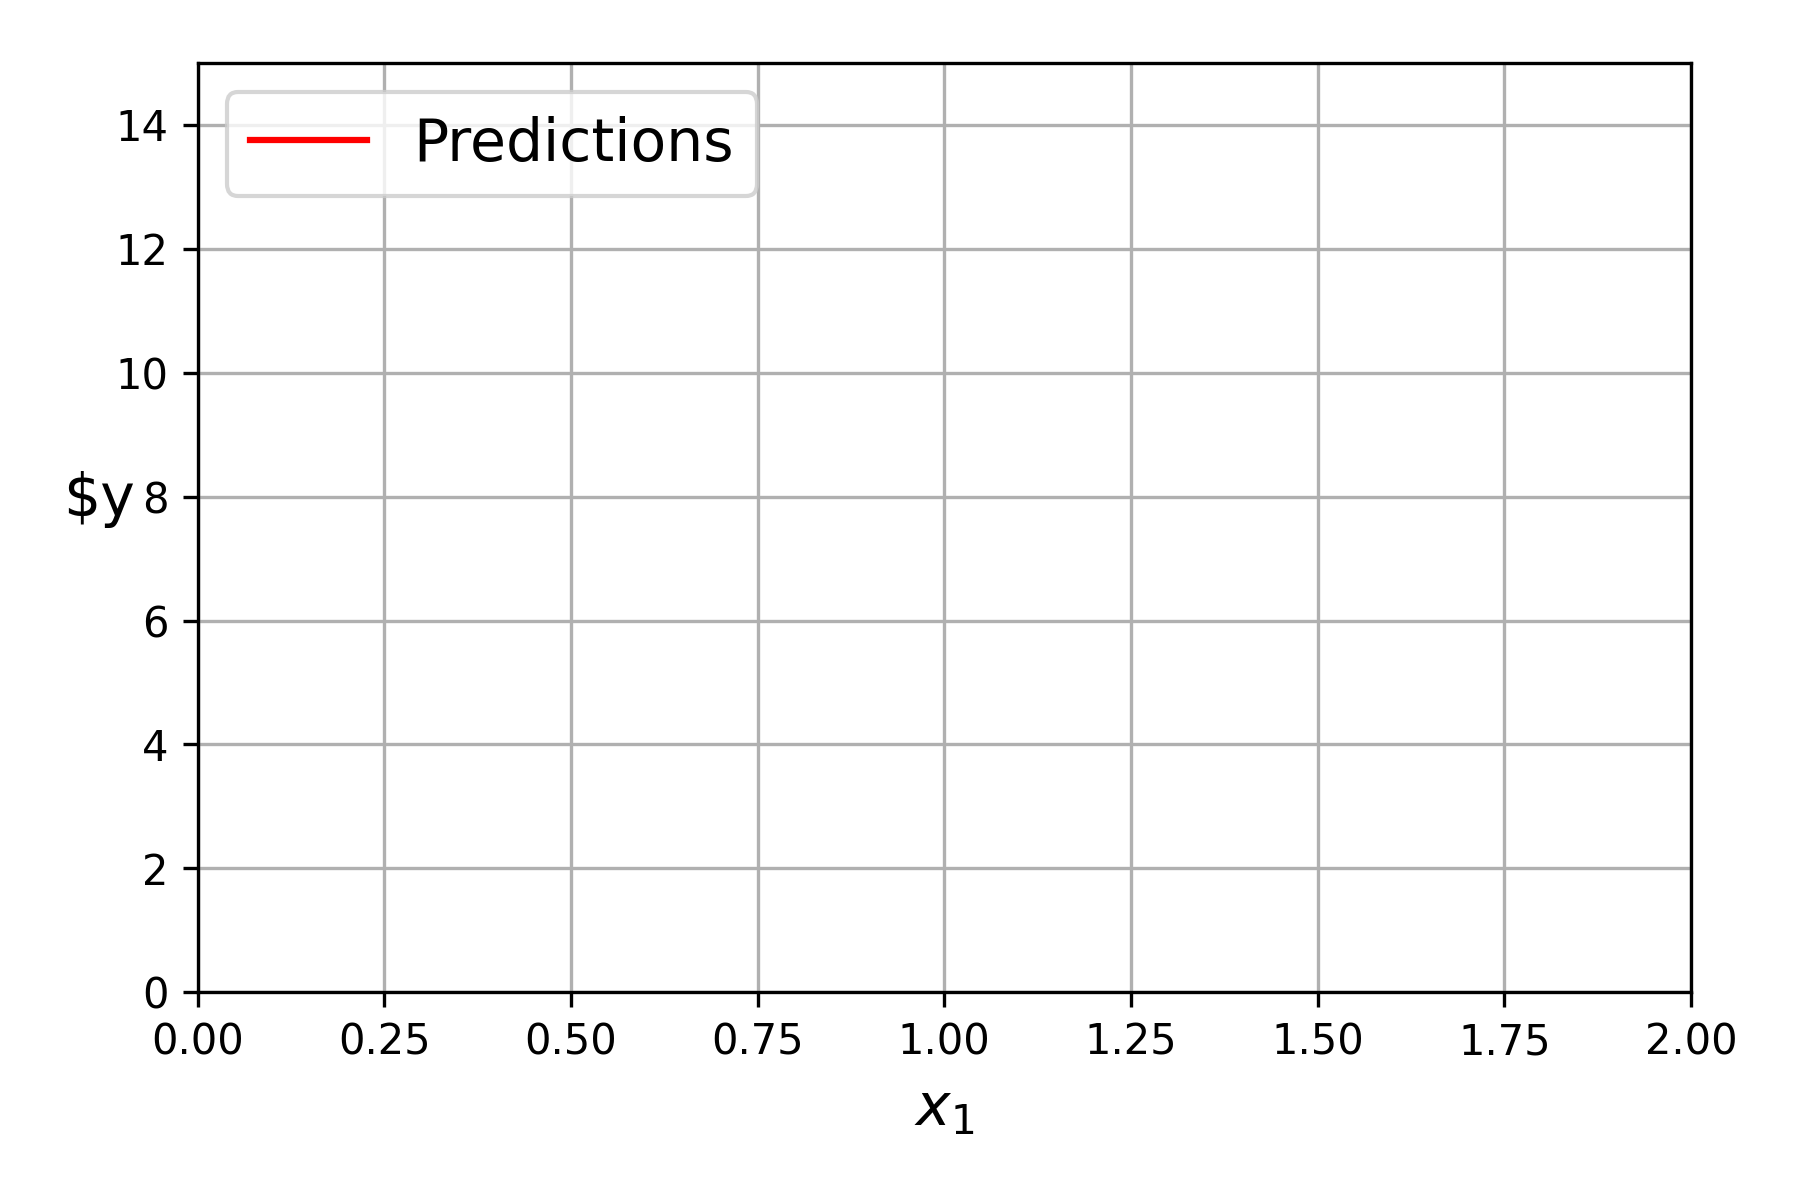
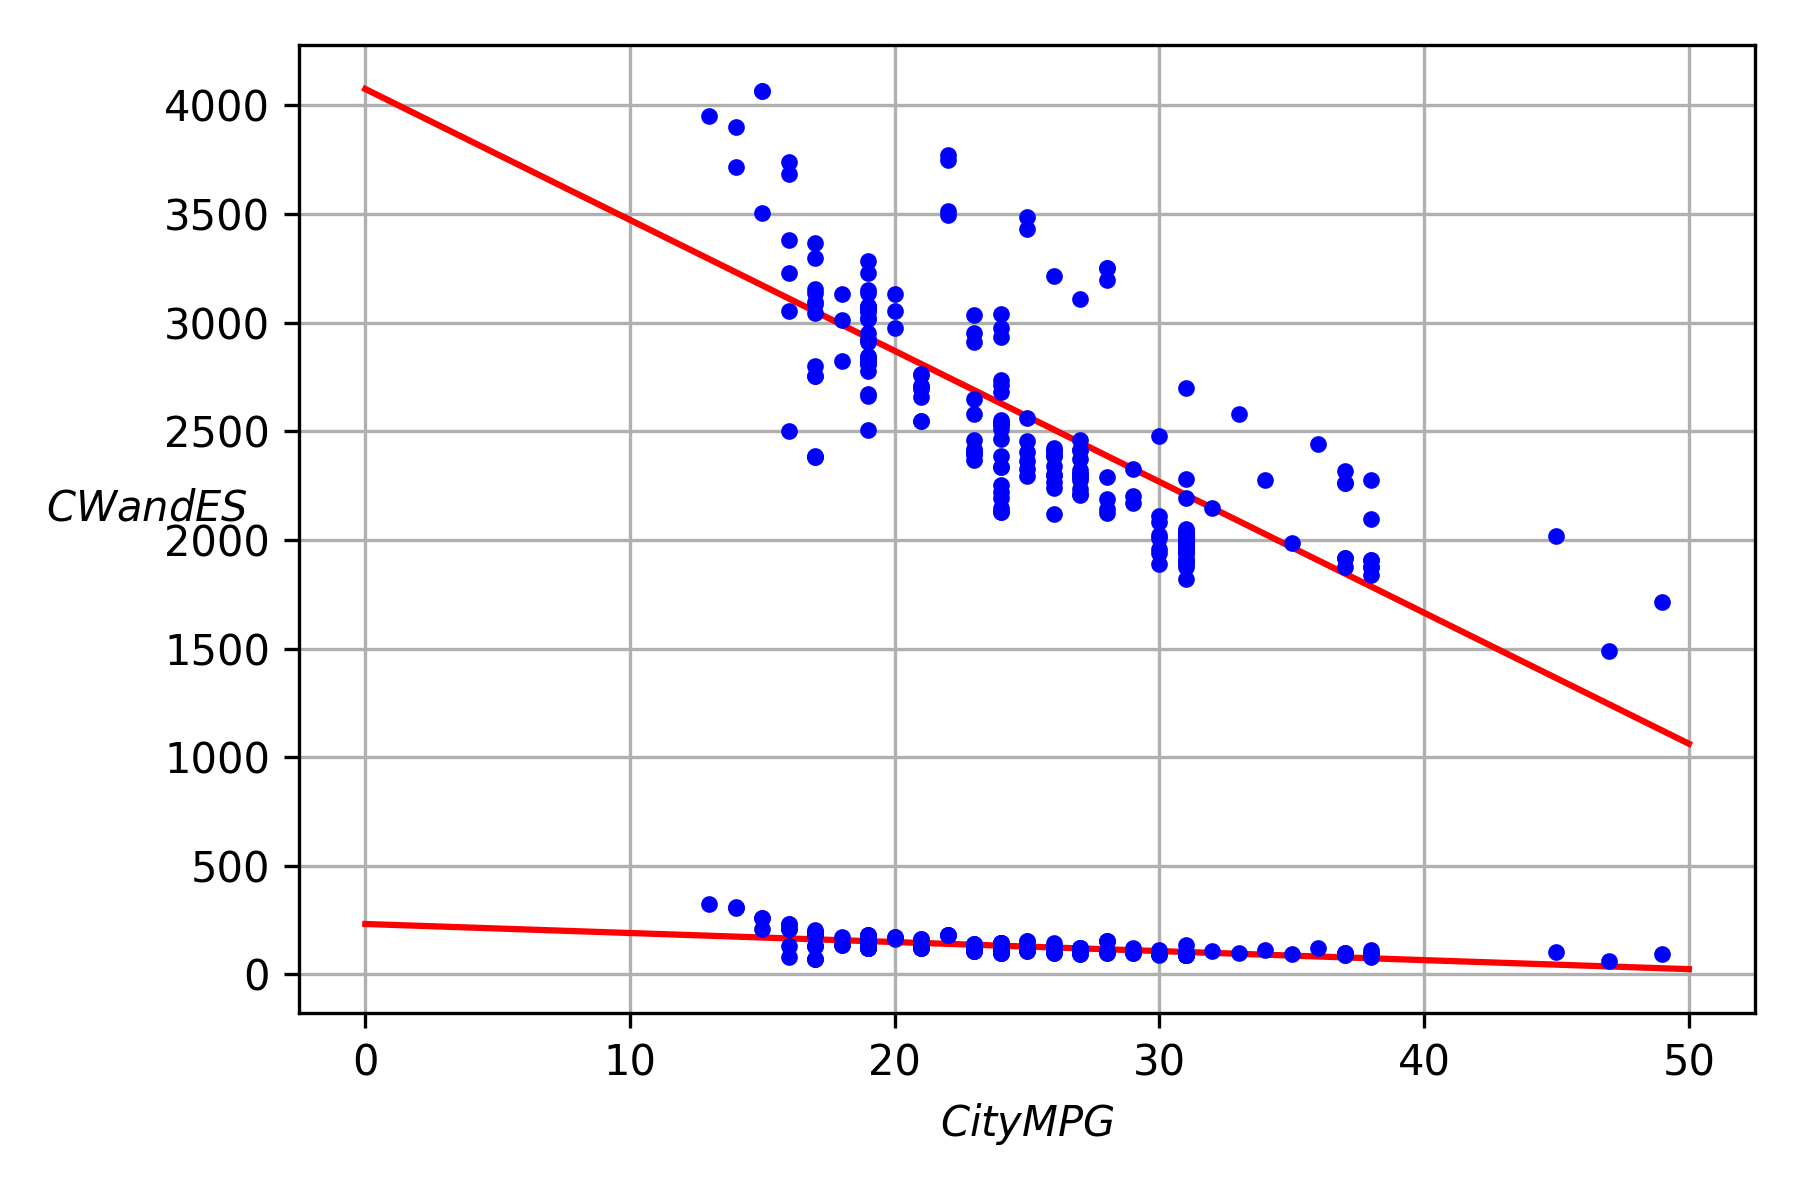
P1

diff --git a/Problem1/SGD.py b/Problem1/SGD.py
@@ -1,25 +1,19 @@
-# All Imports
-
 import pandas as pd
 import sklearn
-import matplotlib as mpl
 import matplotlib.pyplot as plt
 from pathlib import Path
 import numpy as np
 from sklearn.preprocessing import add_dummy_feature
 from sklearn.linear_model import LinearRegression
-from sklearn.linear_model import SGDRegressor
+import matplotlib as mpl
 
-# Setup
+dataset_url = "https://raw.githubusercontent.com/plotly/datasets/master/imports-85.csv"
+df = pd.read_csv(dataset_url)
+np.random.seed(42)
+pd.set_option('display.max_columns', None)
 
-np.random.seed(69)
-plt.rc('font', size=14)
-plt.rc('axes', labelsize=14, titlesize=14)
-plt.rc('legend', fontsize=14)
-plt.rc('xtick', labelsize=10)
-plt.rc('ytick', labelsize=10)
-
-df = pd.read_csv("imports-85.csv")
+target_variable_column = df[['city-mpg']]
+feature_columns = df[['curb-weight', 'engine-size']]
 
 IMAGES_PATH = Path() / "images" / "training_linear_models"
 IMAGES_PATH.mkdir(parents=True, exist_ok=True)
@@ -31,137 +25,77 @@ def save_fig(fig_id, tight_layout=True, fig_extension="png", resolution=300):
         plt.tight_layout()
     plt.savefig(path, format=fig_extension, dpi=resolution)
 
-# Linear Regression
+### Linear Regression ###
 
 
-m = 205
-X = df['engine-size'].values
-y = df['curb-weight'].values
+m = len(df)
+X = target_variable_column.values
+y = feature_columns.values
 
 plt.figure(figsize=(6, 4))
 plt.plot(X, y, "b.")
-plt.xlabel("$Engine Size$")
-plt.ylabel("$Curb Weight$", rotation=0)
+plt.xlabel("$City MPG$")
+plt.ylabel("$CW and ES$", rotation=0)
 plt.grid()
 save_fig("generated_data_plot")
 plt.show()
 
-###########################################
-
-X_b = add_dummy_feature(df['engine-size'])
+X_b = add_dummy_feature(X)  # add x0 = 1 to each instance
 theta_best = np.linalg.inv(X_b.T @ X_b) @ X_b.T @ y
 
-X_new = np.array([[0], [2]])
+X_new = np.array([[0], [50]])
 X_new_b = add_dummy_feature(X_new)
 y_predict = X_new_b @ theta_best
+y_predict
 
-plt.figure(figsize=(6, 4))
+plt.figure(figsize=(6, 4))  # extra code – not needed, just formatting
 plt.plot(X_new, y_predict, "r-", label="Predictions")
 plt.plot(X, y, "b.")
-
-plt.xlabel("$x_1$")
-plt.ylabel("$y", rotation=0)
-plt.axis([0, 2, 0, 15])
+plt.xlabel("$City MPG$")
+plt.ylabel("$CW and ES$", rotation=0)
 plt.grid()
-plt.legend(loc="upper left")
 save_fig("linear_model_predictions_plot")
 plt.show()
 
 lin_reg = LinearRegression()
 lin_reg.fit(X, y)
+lin_reg.intercept_, lin_reg.coef_
 lin_reg.predict(X_new)
 theta_best_svd, residuals, rank, s = np.linalg.lstsq(X_b, y, rcond=1e-6)
 np.linalg.pinv(X_b) @ y
 
-# GRADIENT DESCENT
-# - Batch Gradient Descent
-
-eta = 0.1
-n_epochs = 1000
-m = len(X_b)
-
-theta = np.random.randn(2, 1)
-for epoch in range(n_epochs):
-    gradients = 2 / m * X_b.T @ (X_b @ theta - y)
-    theta = theta - eta * gradients
-
-
-def plot_gradient_descent(theta, eta):
-    m = len(X_b)
-    plt.plot(X, y, "b.")
-    n_epochs = 1000
-    n_shown = 20
-    theta_path = []
-    for epoch in range(n_epochs):
-        if epoch < n_shown:
-            y_predict = X_new_b @ theta
-            color = mpl.colors.rgb2hex(plt.cm.OrRd(epoch / n_shown + 0.15))
-            plt.plot(X_new, y_predict, linestyle="solid", color=color)
-        gradients = 2 / m * X_b.T @ (X_b @ theta - y)
-        theta = theta - eta * gradients
-        theta_path.append(theta)
-    plt.xlabel("$x_1$")
-    plt.axis([0, 2, 0, 15])
-    plt.grid()
-    plt.title(fr"$\eta = {eta}$")
-    return theta_path
-
-
-theta = np.random.randn(2, 1)
-
-plt.figure(figsize=(10, 4))
-plt.subplot(131)
-plot_gradient_descent(theta, eta=0.02)
-plt.ylabel("$y$", rotation=0)
-plt.subplot(132)
-theta_path_bgd = plot_gradient_descent(theta, eta=0.1)
-plt.gca().axes.yaxis.set_ticklabels([])
-plt.subplot(133)
-plt.gca().axes.yaxis.set_ticklabels([])
-plot_gradient_descent(theta, eta=0.5)
-save_fig("gradient_descent_plot")
-plt.show()
-
-# - Stochastic Gradient Descent
-
 theta_path_sgd = []
 n_epochs = 50
-t0, t1 = 5, 50
+t0, t1 = 5, 50  # learning schedule hyperparameters
 
 
 def learning_schedule(t):
-    return t0 / (t+t1)
+    return t0 / (t + t1)
 
 
-theta = np.random.randn(2, 1)
+theta = np.random.randn(2, 1)  # random initialization
 
-n_shown = 20
-plt.figure(figsize=(6, 4))
-
+n_shown = 20  # extra code – just needed to generate the figure below
+plt.figure(figsize=(6, 4))  # extra code – not needed, just formatting
 for epoch in range(n_epochs):
     for iteration in range(m):
+        # extra code – these 4 lines are used to generate the figure
         if epoch == 0 and iteration < n_shown:
-            y_predict = X_new_b @ theta
-            color = mpl.colors.rgb2hex(
-                plt.cm.OrRd(iteration / n_shown + 0.15))
+            y_predict = X_new_b @ theta_best
+            color = mpl.colors.rgb2hex(plt.cm.OrRd(iteration / n_shown + 0.15))
             plt.plot(X_new, y_predict, color=color)
 
         random_index = np.random.randint(m)
         xi = X_b[random_index: random_index + 1]
         yi = y[random_index: random_index + 1]
-        gradients = 2*xi.T @ (xi @ theta - yi)
+        # for SGD, do not divide by m
+        gradients = 2 * xi.T @ (xi @ theta - yi)
         eta = learning_schedule(epoch * m + iteration)
         theta = theta - eta * gradients
+        # extra code – to generate the figure
         theta_path_sgd.append(theta)
 
+# extra code – this section beautifies and saves Figure 4–10
 plt.plot(X, y, "b.")
-plt.xlabel("$x_1$")
-plt.ylabel("$y$", rotation=0)
-plt.axis([0, 2, 0, 15])
 plt.grid()
-save_fig("sgd_plot")
 plt.show()
-
-sgd_reg = SGDRegressor(max_iter=1000, tol=1e-5, penalty=None,
-                       eta0=0.01, n_iter_no_change=100, random_state=42)
-sgd_reg.fit(X, y.ravel())
